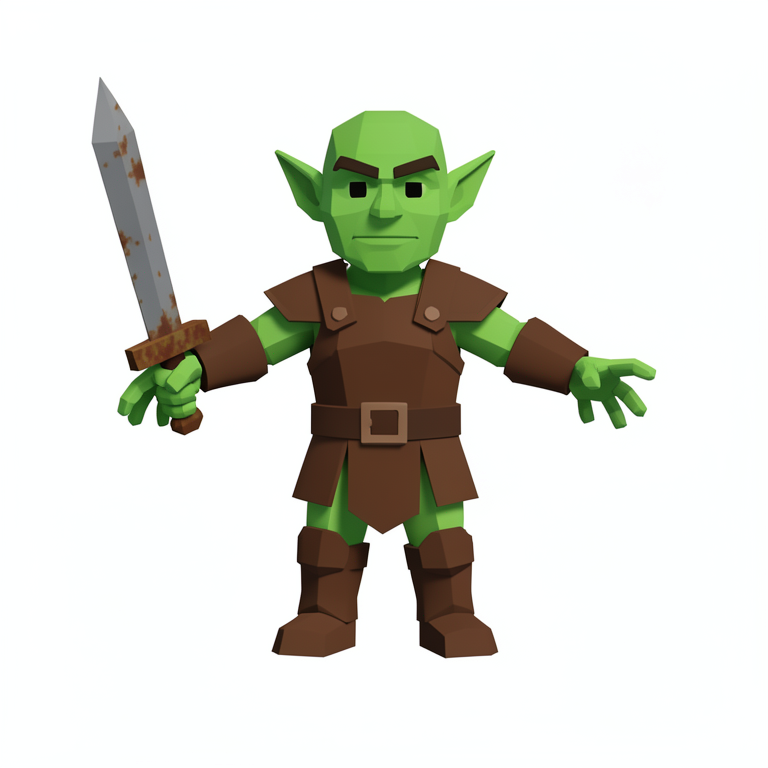
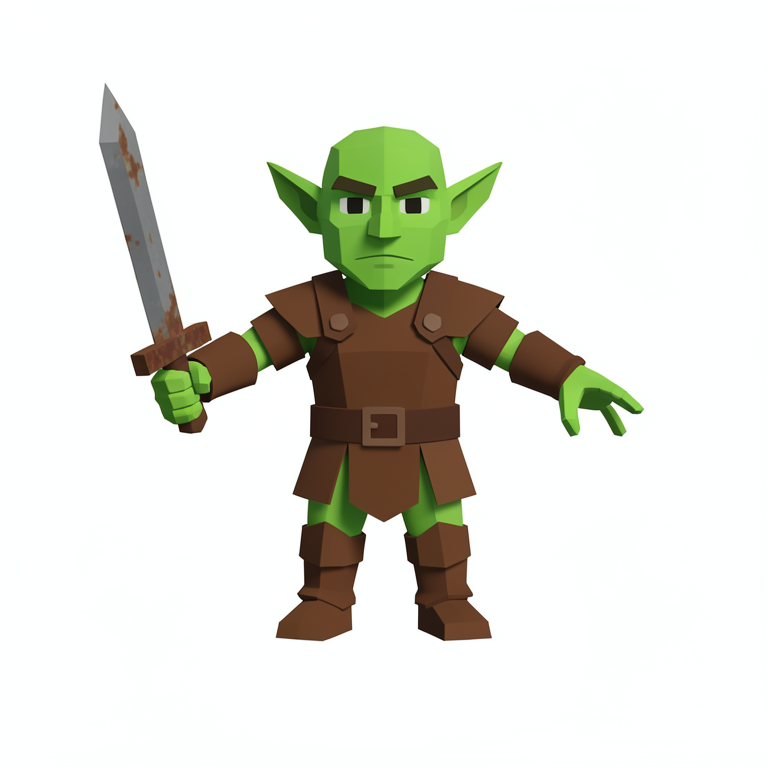
feat(gameassets): per-asset lod_levels in manifest, remove redundant .glb copies
- ManifestRow now has lod_levels field (1-3, default 3)
- manifest.yaml: goblin lod_levels=1, wooden_crate lod_levels=3
- goblin pipeline: [3d, rig, animate, lod, collision] (no parts)
- Removed redundant goblin_warrior.glb and wooden_crate.glb copies
- Output now: only _shape, _painted, _rigged, _rigged_animated, _lodN, _collision

diff --git a/Text3D/src/text3d/utils/mesh_remesh_textured.py b/Text3D/src/text3d/utils/mesh_remesh_textured.py
@@ -853,13 +853,22 @@ def remesh_textured_glb(
     n_final = len(obj.data.polygons)
     bpy.ops.object.select_all(action="DESELECT")
     obj.select_set(True)
-    bpy.context.view_layer.objects.active = obj
+
+    # Also select armature if present (preserve rig + animations)
+    arm_objs = [o for o in bpy.context.scene.objects if o.type == "ARMATURE"]
+    for a in arm_objs:
+        a.select_set(True)
+    has_armature = bool(arm_objs)
+
+    bpy.context.view_layer.objects.active = arm_objs[0] if has_armature else obj
     bpy.ops.export_scene.gltf(
         filepath=str(path_out),
         use_selection=True,
         export_apply=True,
         export_normals=True,
         export_texcoords=True,
+        export_animations=has_armature,
+        export_skins=has_armature,
         export_materials="EXPORT",
         export_image_format="AUTO",
     )

diff --git a/GameAssets/src/gameassets/manifest.py b/GameAssets/src/gameassets/manifest.py
@@ -27,6 +27,7 @@ class ManifestRow:
     generate_parts: bool = False
     generate_lod: bool = False
     generate_collision: bool = False
+    lod_levels: int = 3
     # Asset category (e.g. humanoid, chest, weapon) — drives prompt hints and generation params
     category: str = ""
     # Part3D por linha: sobrepõe part3d.{steps,octree_resolution,segment_only} do perfil
@@ -81,6 +82,7 @@ def _load_manifest_yaml(path: Path) -> list[ManifestRow]:
                 generate_parts="parts" in pipeline_items,
                 generate_lod="lod" in pipeline_items,
                 generate_collision="collision" in pipeline_items,
+                lod_levels=int(entry.get("lod_levels", 3)),
                 image_source=entry.get("image_source"),
                 category=(entry.get("category") or "").lower(),
                 part3d_steps=part3d_cfg.get("steps"),